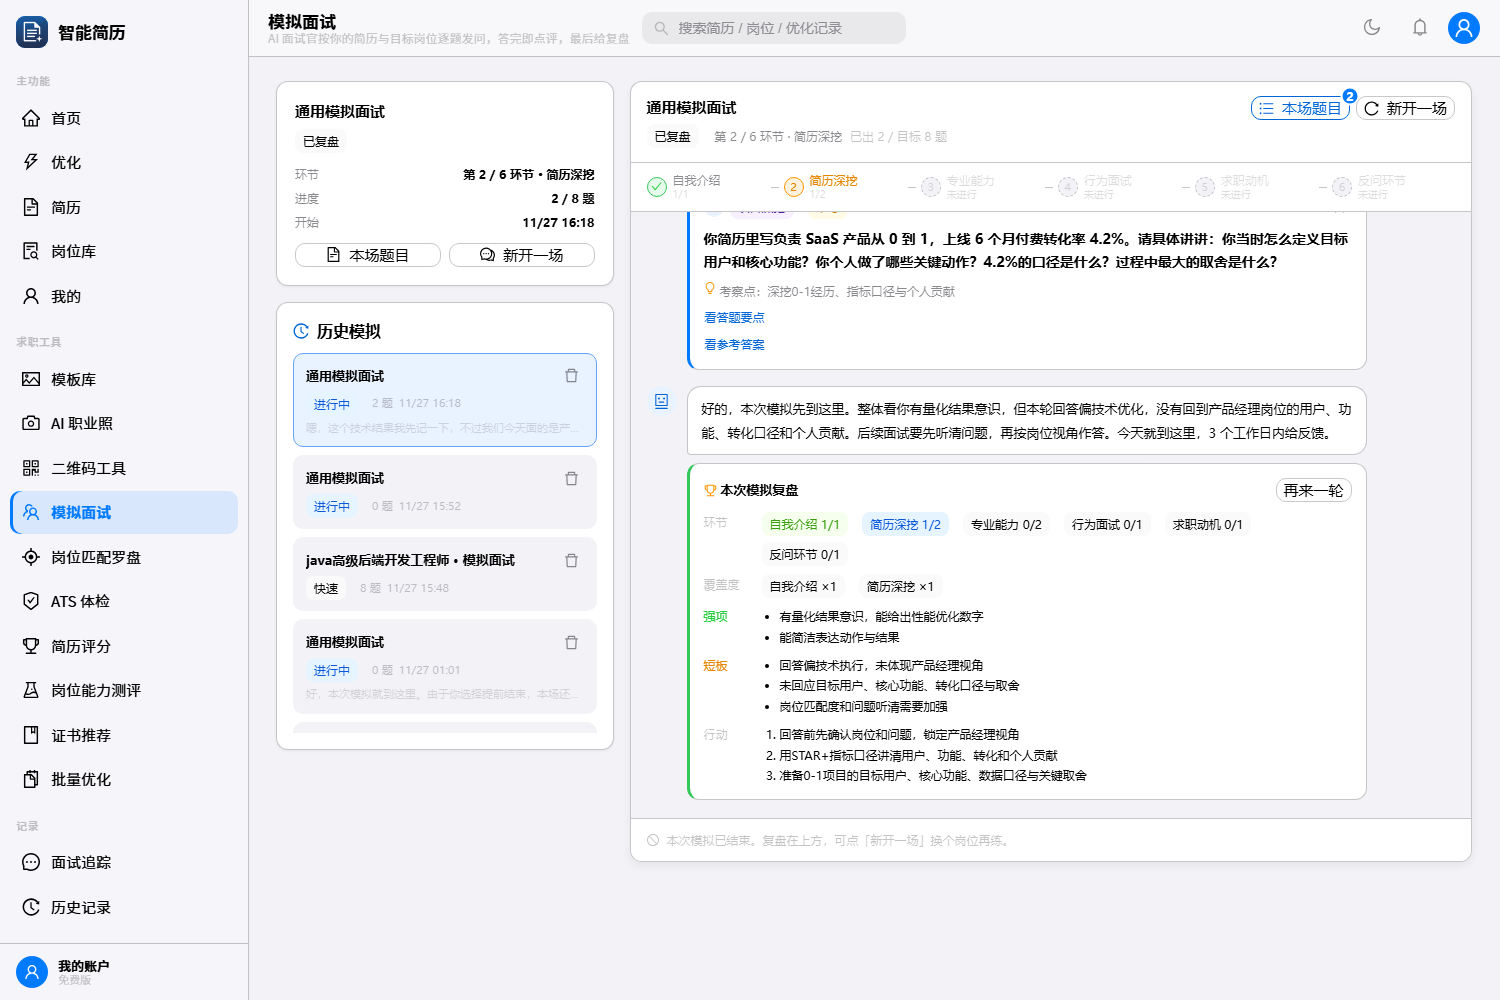
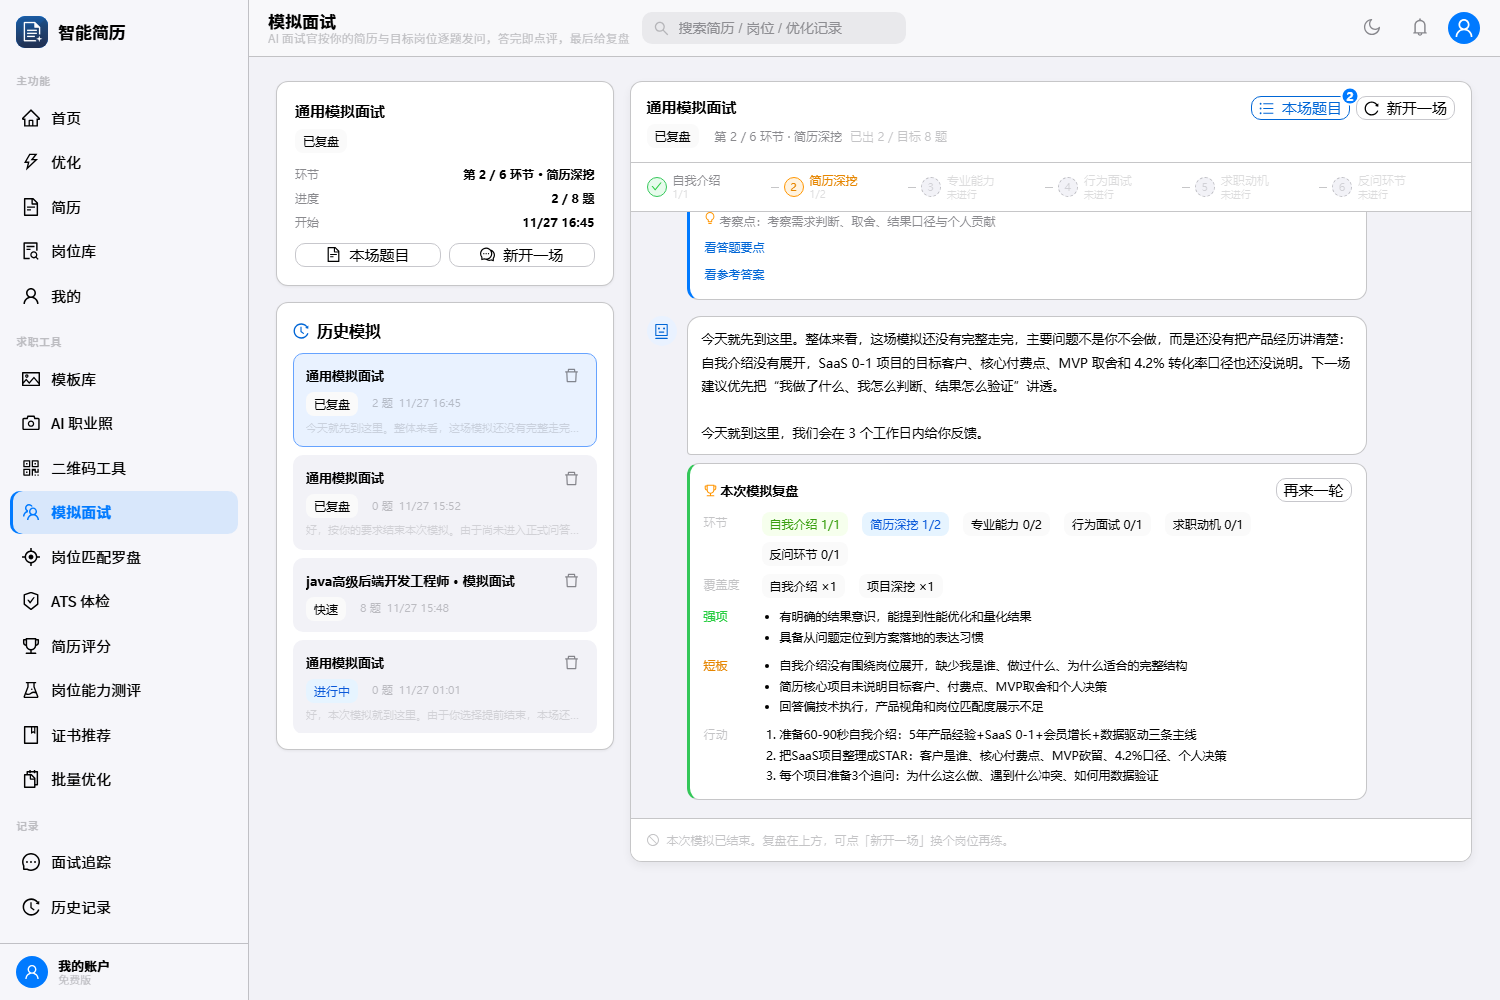
fix(interview): 结束模拟后左侧历史记录状态同步为已复盘
复盘后侧栏仍显示「进行中」的根因是刷新时序竞态：
- meta 事件在 LLM 开跑前就到达，onMeta 提前把本地 stage 置成 finished，
  触发页面按 stage 变化刷新列表——此时后端尚未提交，拉回的还是「进行中」；
- 轮次真正结束后 onTurn 再置一次 finished，值未变、effect 不再触发，
  列表永远停在旧状态。

- onMeta 不再更新 stage（stage 只认后端 commit 之后发出的 turn 事件，
  顺带修掉「中途失败后本地误显示已复盘」的隐患）
- hook 新增 finishedTick：每完成一轮 stage=finished 的轮次自增，
  页面据此精确刷新历史列表
- E2E 新增断言：复盘完成后侧栏状态为「已复盘」（40/40）

diff --git a/frontend/src/hooks/useMockInterview.ts b/frontend/src/hooks/useMockInterview.ts
@@ -40,6 +40,8 @@ export function useMockInterview() {
   const [error, setError] = useState<string | null>(null)
   const [quickGenerating, setQuickGenerating] = useState(false)
   const [quickHint, setQuickHint] = useState('')
+  /** 每完成一轮 stage=finished 的轮次自增：页面用它精确触发历史列表刷新 */
+  const [finishedTick, setFinishedTick] = useState(0)
 
   const abortRef = useRef<AbortController | null>(null)
   const pollRef = useRef<ReturnType<typeof setInterval> | null>(null)
@@ -102,7 +104,9 @@ export function useMockInterview() {
           onMeta: (info) => {
             setSession((prev) => (prev ? {
               ...prev,
-              stage: (info.stage as InterviewStage) || prev.stage,
+              // 注意：这里不更新 stage。meta 在 LLM 开跑前就到达，此时后端还未提交；
+              // 若提前置 finished，页面会拿旧库数据刷新列表，且轮次结束后值不再变化、永不重刷。
+              // stage 只认 turn 事件（后端 commit 之后才发出，是权威值）。
               stage_key: (info.stage_key as InterviewStageKey) || prev.stage_key,
               plan: (info.plan as InterviewPlanItem[]) || prev.plan,
               turn_index: info.turn ?? prev.turn_index,
@@ -133,6 +137,8 @@ export function useMockInterview() {
                 finished_at: info.stage === 'finished' ? new Date().toISOString() : prev.finished_at,
               }
             })
+            // turn 事件在 db.commit() 之后发出，此时历史列表才能拉到已复盘状态
+            if (info.stage === 'finished') setFinishedTick((t) => t + 1)
           },
           onError: (msg) => {
             // SSE error = 请求已被受理（作答已落库），只丢助手回复，不撤回用户气泡
@@ -299,6 +305,8 @@ export function useMockInterview() {
     error,
     quickGenerating,
     quickHint,
+    /** 完成复盘轮次的次数：历史列表刷新的精确触发器 */
+    finishedTick,
     start,
     answer,
     control,

diff --git a/frontend/src/app/interview/page.tsx b/frontend/src/app/interview/page.tsx
@@ -56,7 +56,7 @@ export default function MockInterviewPage() {
   const mock = useMockInterview()
   const {
     session, messages, streamText, streaming, loading, error,
-    quickGenerating, start, answer, control, openSession, generateQuick,
+    quickGenerating, finishedTick, start, answer, control, openSession, generateQuick,
     updateQuestion, remove, reset, stop,
   } = mock
 
@@ -98,10 +98,13 @@ export default function MockInterviewPage() {
     loadSessions()
   }, [token, loadSessions])
 
-  // 复盘完成 / 旧任务生成完成时刷新历史列表（标题、题数、最近消息）
+  // 复盘轮次完成时刷新历史列表（标题、状态、题数、最近消息）。
+  // 注意不能依赖 session.stage：meta 事件会提前把本地 stage 置成 finished，
+  // 那时后端尚未提交，拉到的还是「进行中」；而轮次结束后 stage 值不再变化、永不重刷。
+  // finishedTick 只在后端 commit 之后的 turn 事件里自增，是精确触发器。
   useEffect(() => {
-    if (session?.stage === 'finished') loadSessions()
-  }, [session?.stage, loadSessions])
+    if (finishedTick) loadSessions()
+  }, [finishedTick, loadSessions])
 
   const handleStart = async () => {
     if (!resumeId && !jobId) {

diff --git a/scripts/verify_mock_interview.py b/scripts/verify_mock_interview.py
@@ -232,6 +232,12 @@ def main() -> int:
                           page.locator('.mock-rail-item[data-state="skipped"] .mock-rail-count').first.inner_text() == "未进行")
                     shot(page, "06-report")
 
+                    # 复盘完成后左侧历史记录必须同步为「已复盘」（回归：列表停留在「进行中」）
+                    page.wait_for_timeout(1200)  # 等 finishedTick 触发的列表刷新完成
+                    side_tag = page.locator(".mock-side-item.active .ant-tag").first
+                    check("左侧历史记录状态同步为已复盘", side_tag.inner_text().strip() == "已复盘",
+                          side_tag.inner_text().strip())
+
                     # 记住会话 ID 用于刷新与删除（标题可能重复，ID 唯一）
                     created_id = page.locator(".mock-side-item.active").first.get_attribute("data-session-id") or ""
                     created_title = page.locator(".mock-current-title").first.inner_text().strip()
